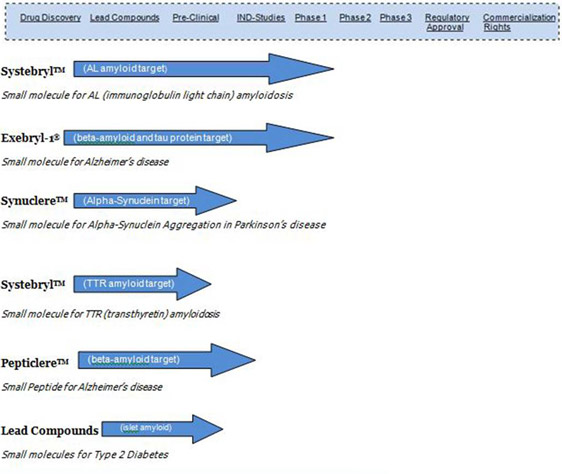
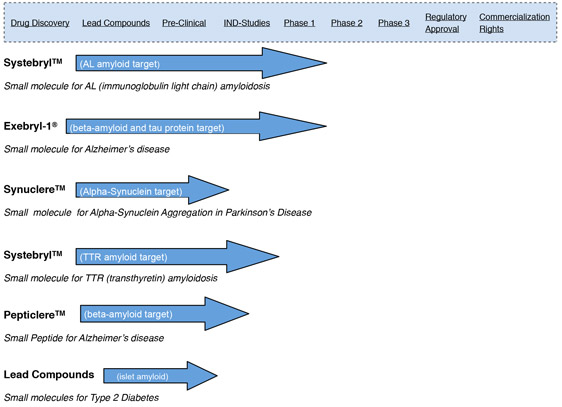
fixing pipeline image.

diff --git a/pipeline/pipeline_overview.html b/pipeline/pipeline_overview.html
@@ -122,7 +122,7 @@
 							<div id="column1">
 								<p><img src="../images/title_pipeline_overview.gif" width="448" height="51" /></p>
 								<p>Click on the graph to see a larger view</p>
-								<p><a href="#"><img src="../images/pipeline-overview.jpg" border="0" onclick="MM_openBrWindow('pipeline_pop-up.html','','width=834,height=685')" /></a></p>
+								<p><a href="#"><img src="../images/pipeline-overview.png" border="0" onclick="MM_openBrWindow('pipeline_pop-up.html','','width=834,height=685')" /></a></p>
 								<p style="text-align:center;"><em style="font-size:10px;">(click to enlarge)</em></p>
 							</div>
 							<div id="column2">

diff --git a/pipeline/pipeline_pop-up.html b/pipeline/pipeline_pop-up.html
@@ -7,7 +7,7 @@
 </head>
 
 <body>
-<img src="../images/pipeline-popup.jpg" />
+<img src="../images/pipeline-popup.png" />
 		<script type="text/javascript">
 			var gaJsHost = (("https:" == document.location.protocol) ? "https://ssl." : "http://www.");
 			document.write(unescape("%3Cscript src='" + gaJsHost + "google-analytics.com/ga.js' type='text/javascript'%3E%3C/script%3E"));
